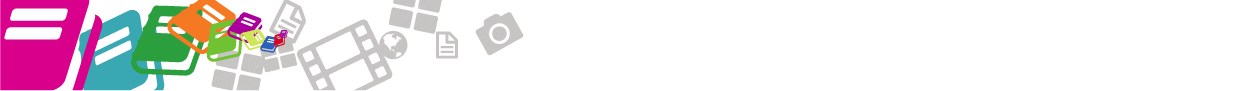
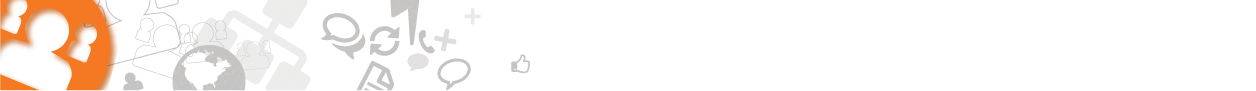
www-public activities and news backgrounds
also p kerning and font-weight

Changed region(s): [[0.0, 0.0, 0.4347, 1.0], [0.4037, 0.6154, 0.4347, 0.8132]]

diff --git a/caloomhtml/UI/docs/oip-additions/oip-assets/oip-css/oip-bootstrap.css b/caloomhtml/UI/docs/oip-additions/oip-assets/oip-css/oip-bootstrap.css
@@ -5079,6 +5079,10 @@ body {
   background-image: url(../oip-images/ui/yt-background-image-brown.png);
   height: 100%;
 }
+p {
+  font-weight: 200;
+  letter-spacing: 0.1em;
+}
 p a.noteditable,
 p a.noteditable:hover {
   color: #3d3d3d;
@@ -5309,8 +5313,8 @@ p a.noteditable:hover {
   margin-bottom: 20px;
   background-color: transparent;
 }
-.blog-header {
-  background-image: url("../oip-images/ui/well-blog-header-background.png");
+.news-header {
+  background-image: url("../oip-images/ui/well-news-header-background.png");
 }
 .about-header {
   background-image: url("../oip-images/ui/well-about-header-background.png");

diff --git a/caloomhtml/UI/docs/oip-additions/oip-assets/less/oip-aalto-id.less b/caloomhtml/UI/docs/oip-additions/oip-assets/less/oip-aalto-id.less
@@ -5,6 +5,11 @@ body {
   height: 100%;
 }
 
+p{
+  font-weight: 200;
+  letter-spacing: 0.1em;
+}
+
 p a.noteditable,
 p a.noteditable:hover{
   color: @textColor;
@@ -295,8 +300,8 @@ p a.noteditable:hover{
   background-color: transparent;
 }
 
-.blog-header {
-  background-image: url("../oip-images/ui/well-blog-header-background.png");
+.news-header {
+  background-image: url("../oip-images/ui/well-news-header-background.png");
 }
 .about-header {
   background-image: url("../oip-images/ui/well-about-header-background.png");
